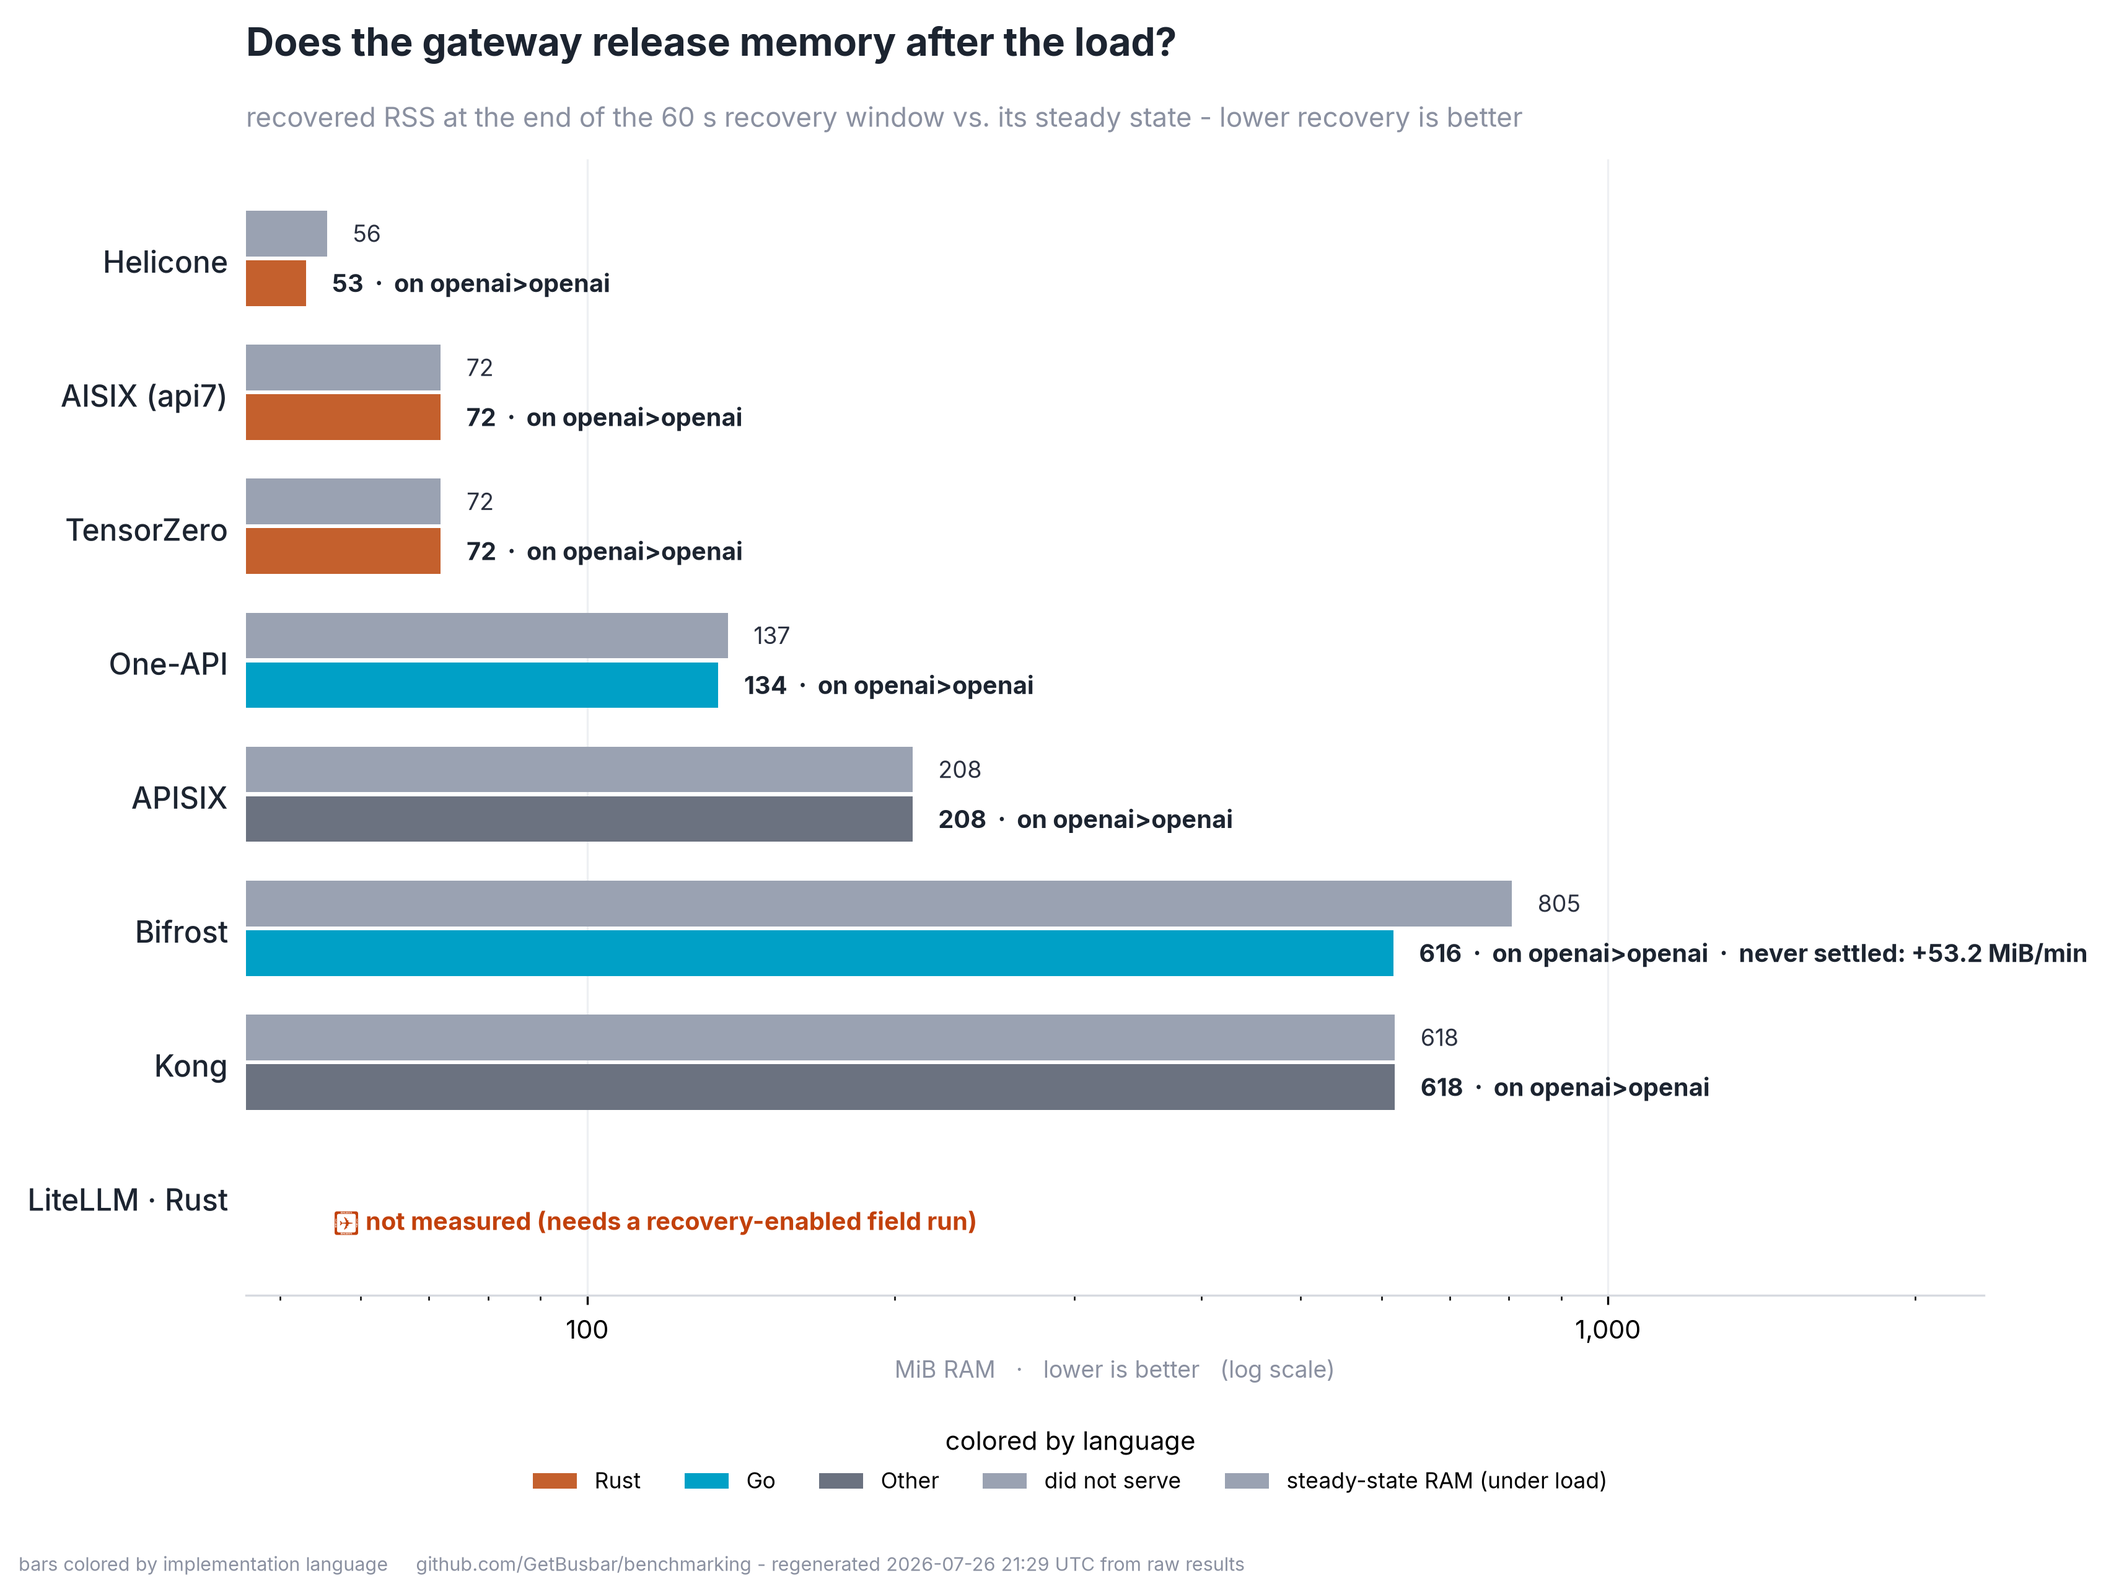
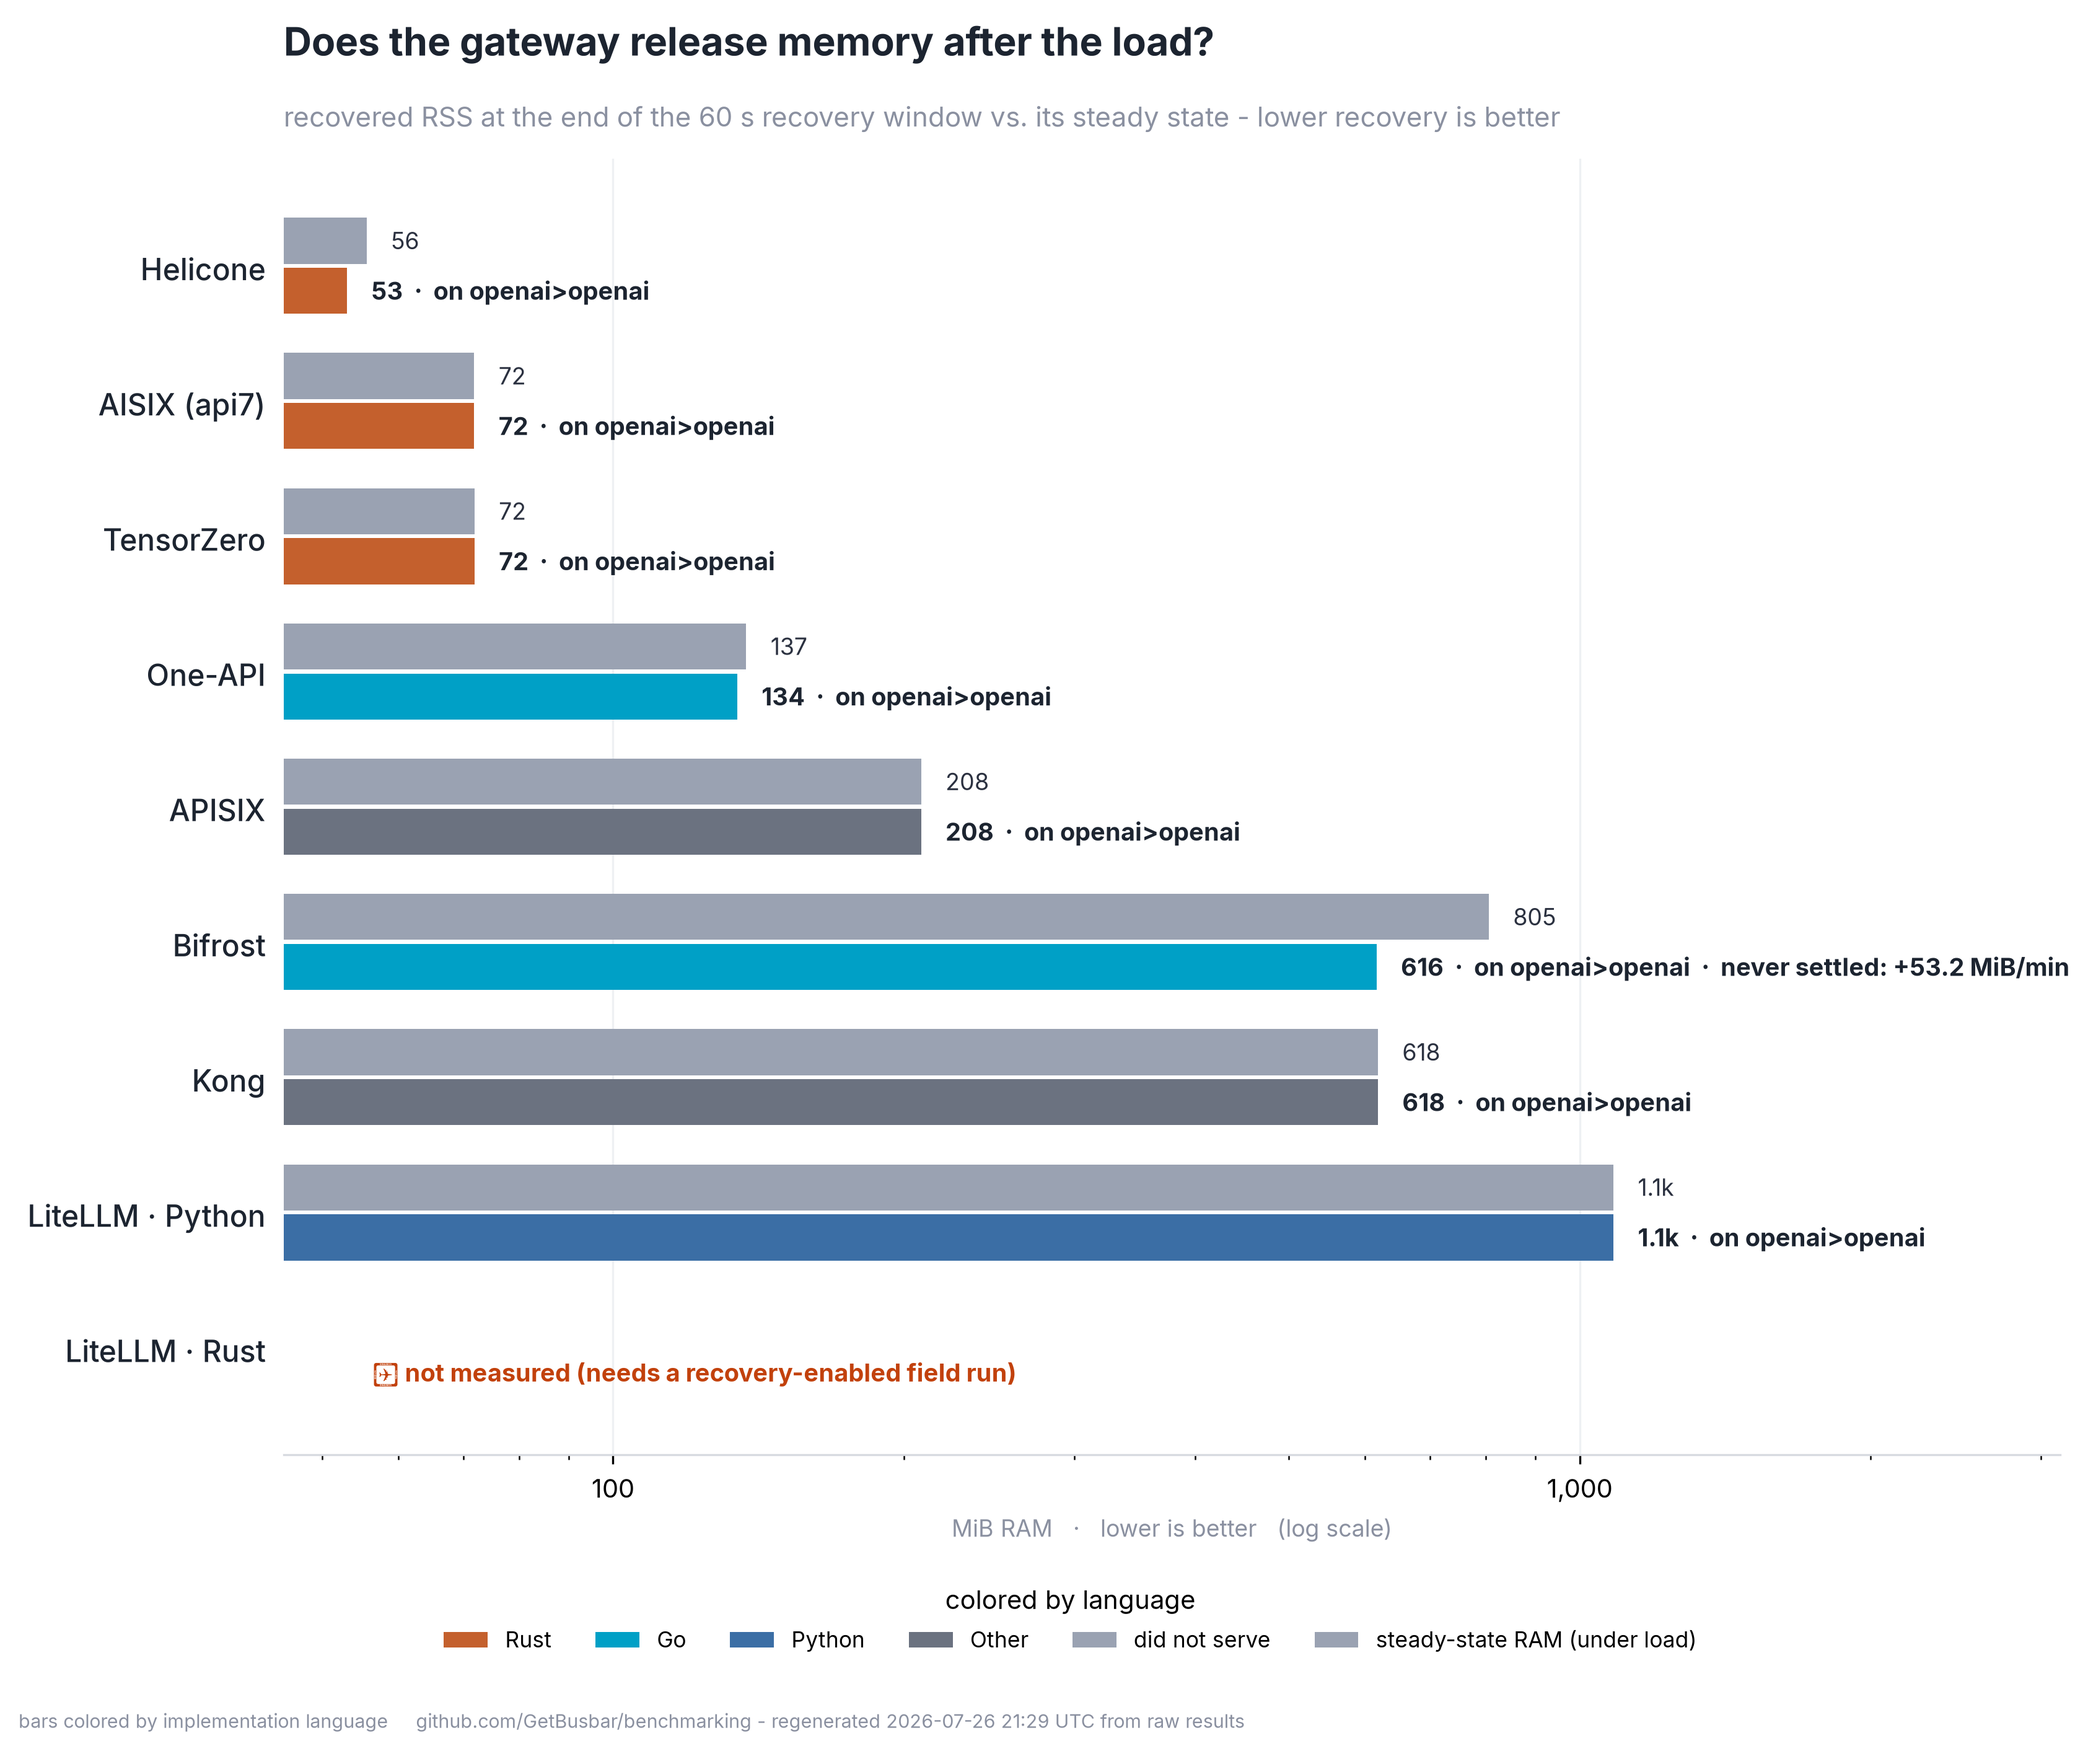
chore(charts): regenerate from results [skip ci]

diff --git a/results/reports/all/README.md b/results/reports/all/README.md
@@ -11,16 +11,16 @@ Every number below is regenerated from the raw `results/*.json` - re-run `run-al
 | [Bifrost](https://github.com/maximhq/bifrost) | - | 0 | 0 | 154 MiB | 805 MiB | `` |
 | [Helicone](https://github.com/Helicone/ai-gateway) | - | 0 | 0 | 43 MiB | 56 MiB | `` |
 | [Kong](https://github.com/Kong/kong) | - | 0 | 0 | 421 MiB | 618 MiB | `` |
+| [LiteLLM · Python](https://github.com/BerriAI/litellm) | - | 0 | 0 | 1035 MiB | 1083 MiB | `` |
 | [One-API](https://github.com/songquanpeng/one-api) | - | 0 | 0 | 88 MiB | 137 MiB | `` |
 | [TensorZero](https://github.com/tensorzero/tensorzero) | - | 0 | 0 | 49 MiB | 72 MiB | `` |
 | [agentgateway](https://github.com/agentgateway/agentgateway) | ⏳ *pending* | - | - | - | - | *pending measurement* |
 | [Busbar](https://github.com/GetBusbar/busbar) | ⏳ *pending* | - | - | - | - | *pending measurement* |
 | [GoModel](https://github.com/ENTERPILOT/GOModel) | ⏳ *pending* | - | - | - | - | *pending measurement* |
-| [LiteLLM · Python](https://github.com/BerriAI/litellm) | ⏳ *pending* | - | - | - | - | *pending measurement* |
 | [LiteLLM · Rust](https://github.com/BerriAI/litellm) | ⏳ *pending* | - | - | - | - | *pending measurement* |
 | [Portkey](https://github.com/Portkey-AI/gateway) | ⏳ *pending* | - | - | - | - | *pending measurement* |
 
-⏳ **Pending measurement** (a manifest exists; not yet run on the rig): agentgateway, Busbar, GoModel, LiteLLM · Python, LiteLLM · Rust, Portkey. These land here as their runs complete - nothing is hidden.
+⏳ **Pending measurement** (a manifest exists; not yet run on the rig): agentgateway, Busbar, GoModel, LiteLLM · Rust, Portkey. These land here as their runs complete - nothing is hidden.
 
 Two throughput numbers: **max proxy RPS** (instant upstream - raw forwarding speed) and **sustained RPS under a 20 ms upstream delay** (AIGatewayBench's metric - concurrent in-flight capacity under realistic LLM latency).
 **⏳** = a manifest exists but it hasn't been run on the rig yet.
